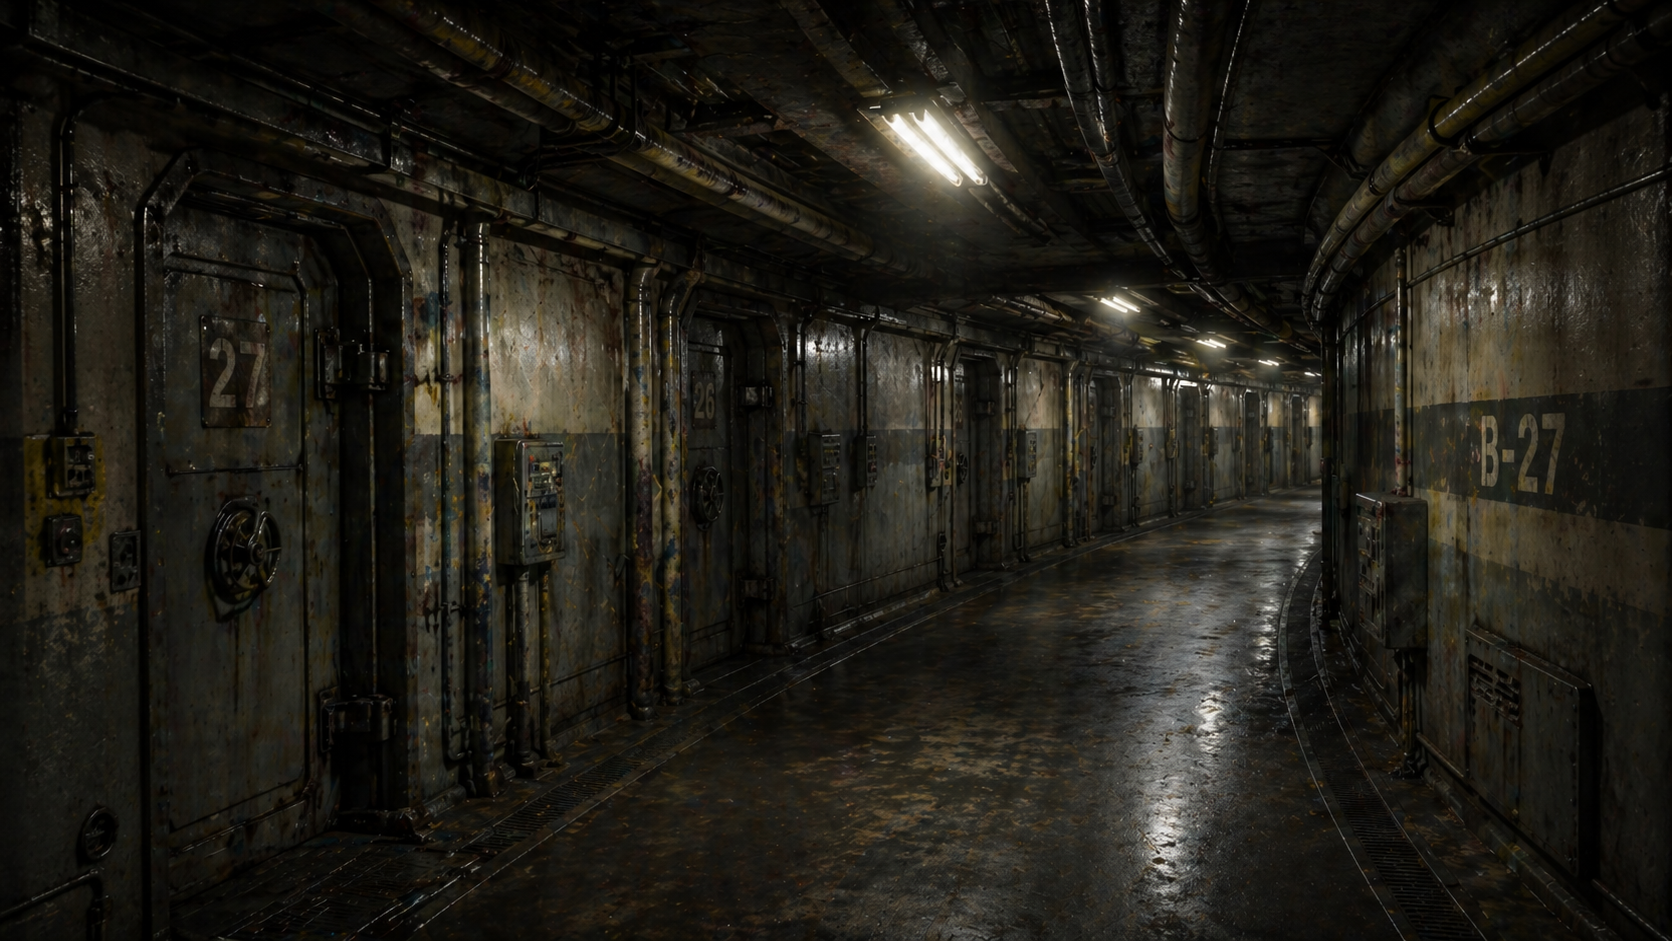
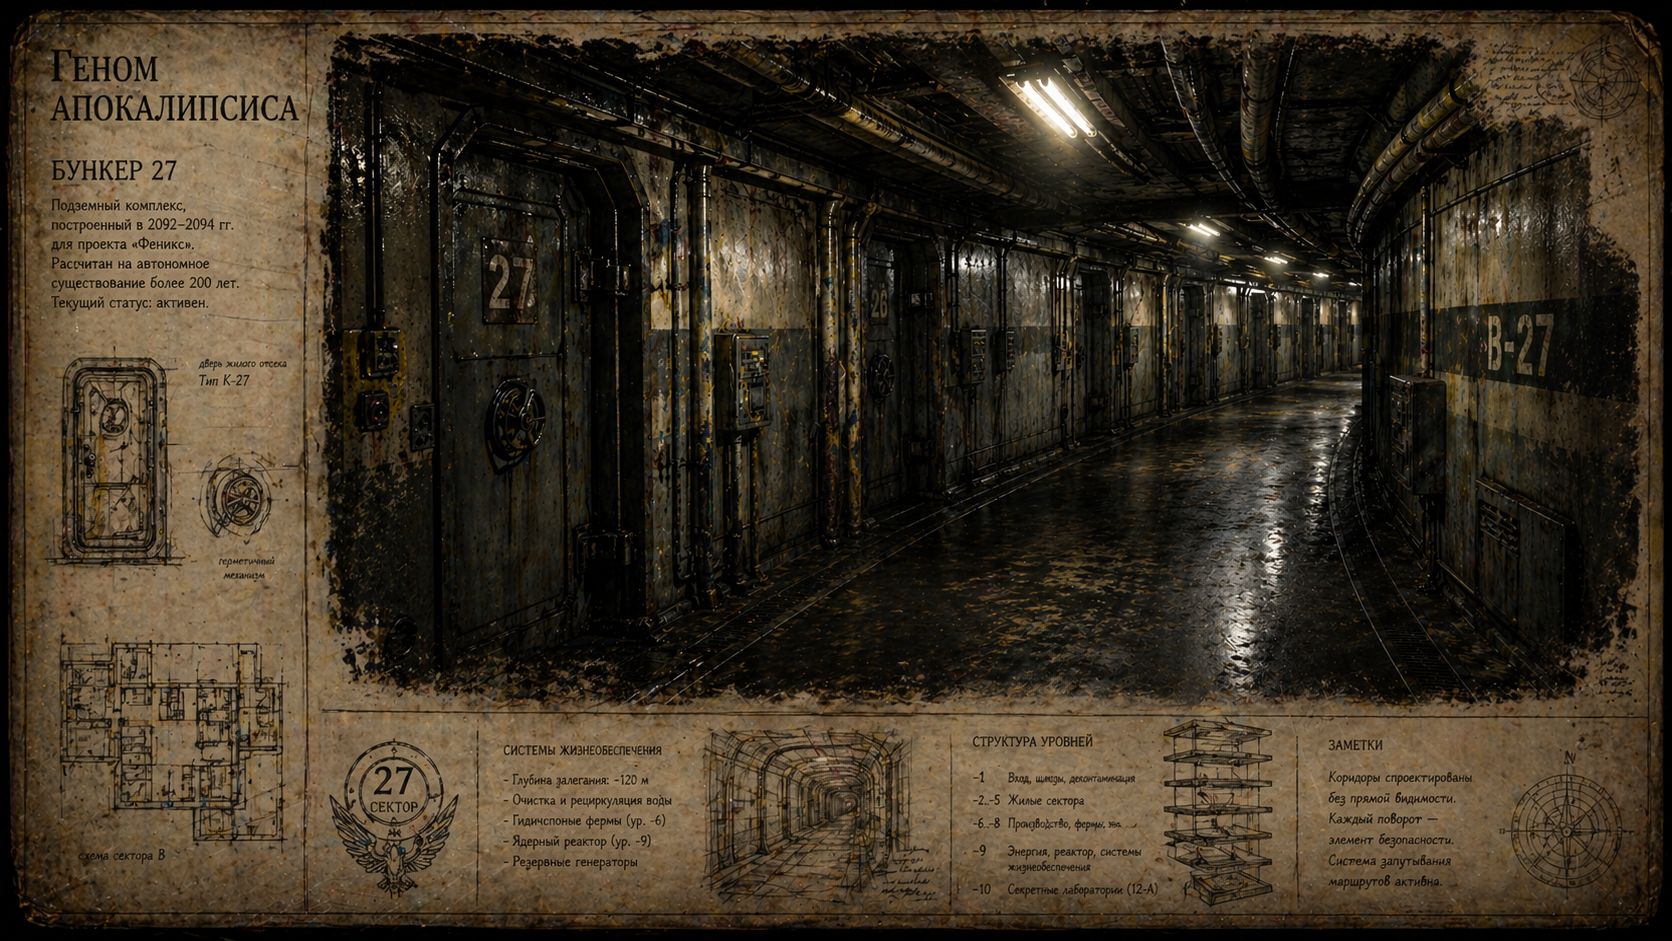
Add book covers and replace world images with infographics
Added all 7 book cover images to /books/cover-{1-7}.png and display
them on the books listing page. Replaced 4 world images with
infographic versions (bunker-27, bunker-12, red-zone, seraphima).

diff --git a/src/lib/data.ts b/src/lib/data.ts
@@ -6,6 +6,7 @@ export interface Book {
   description: string;
   pages: string;
   free: boolean;
+  cover: string;
   chapters?: Chapter[];
 }
 
@@ -38,6 +39,7 @@ export const books: Book[] = [
       "Бункер 27. Триста лет после катастрофы. Братья Ардин и Кейл живут обычной жизнью — пока Кейл не находит нестыковки в архивах. Расследование приводит их в секретную Секцию 12-А, где хранится правда: они — образцы генетического эксперимента. Преследуемые, преданные, потерявшие наставника — они вынуждены бежать на поверхность, в мир, которого никогда не видели.",
     pages: "250-300",
     free: true,
+    cover: "/books/cover-1.png",
   },
   {
     id: 2,
@@ -48,6 +50,7 @@ export const books: Book[] = [
       "На поверхности братья встречают людей, которые ломают все стереотипы бункерной жизни. Кочевники, фермеры, рейдеры — и Мира, инженер из разрушенного бункера. Главарь рейдеров оказывается бывшим жителем их бункера. Маленький шаг к связи между мирами оказывается важнее великих планов.",
     pages: "300-350",
     free: true,
+    cover: "/books/cover-2.png",
   },
   {
     id: 3,
@@ -58,6 +61,7 @@ export const books: Book[] = [
       "Альянс Бункеров хочет запустить массовую генетическую программу — ради блага всех. Серафима и её община видят в этом уничтожение идентичности. Братья оказываются между двумя правдами. Первый честный разговор между сторонами заканчивается криками — но это начало.",
     pages: "350-400",
     free: true,
+    cover: "/books/cover-3.png",
   },
   {
     id: 4,
@@ -68,6 +72,7 @@ export const books: Book[] = [
       "Культ Чистоты набирает силу — движение напуганных людей, потерявших близких. Кейл идёт к их лидеру один, без оружия — просто слушать. Этот поступок стоит ему ранения от своих. Но пауза в насилии — уже победа.",
     pages: "400-500",
     free: true,
+    cover: "/books/cover-4.png",
   },
   {
     id: 5,
@@ -78,6 +83,7 @@ export const books: Book[] = [
       "Братья находят Айдена — не сверхсущество, а человека со шрамами, построившего маленькую общину. Встреча неловкая и настоящая. Раскрывается полная правда о создателе проекта — учёном-идеалисте, который решал за людей. Его ИИ просыпается.",
     pages: "500-550",
     free: false,
+    cover: "/books/cover-5.png",
   },
   {
     id: 6,
@@ -88,6 +94,7 @@ export const books: Book[] = [
       "ИИ берёт контроль над бункерами. Три кризиса одновременно: машина, фанатики, чёрный рынок мутагенов. Ардин отказывается от власти, которую ему предлагают. Это самое трудное решение серии — и самое правильное.",
     pages: "450-550",
     free: false,
+    cover: "/books/cover-6.png",
   },
   {
     id: 7,
@@ -98,6 +105,7 @@ export const books: Book[] = [
       "Десять лет спустя. Мир несовершенен, но живой. Ардин учится отпускать дочь. Кейл пишет честную историю. Айден строит мост. Финал — не битва, а утро: трава, дети, горизонт.",
     pages: "500-600",
     free: false,
+    cover: "/books/cover-7.png",
   },
 ];
 

diff --git a/src/app/books/page.tsx b/src/app/books/page.tsx
@@ -2,6 +2,7 @@
 
 import { useEffect, useState } from "react";
 import Link from "next/link";
+import Image from "next/image";
 import { motion } from "motion/react";
 import { books } from "@/lib/data";
 import { getSavedPosition } from "@/hooks/useReadingPosition";
@@ -101,10 +102,14 @@ export default function BooksPage() {
             >
               <div className="glass rounded-2xl p-8 hover:border-flame-500/15 transition-all duration-500">
                 <div className="flex items-start gap-6">
-                  <div className="shrink-0 w-16 h-20 rounded-lg bg-gradient-to-b from-flame-600/20 to-flame-900/20 border border-flame-600/20 flex items-center justify-center">
-                    <span className="font-[family-name:var(--font-display)] text-2xl text-flame-500/60">
-                      {book.id}
-                    </span>
+                  <div className="shrink-0 w-24 sm:w-32 rounded-lg overflow-hidden shadow-lg">
+                    <Image
+                      src={book.cover}
+                      alt={book.title}
+                      width={200}
+                      height={300}
+                      className="w-full h-auto"
+                    />
                   </div>
                   <div className="flex-1">
                     <div className="flex items-center gap-3 mb-2">
